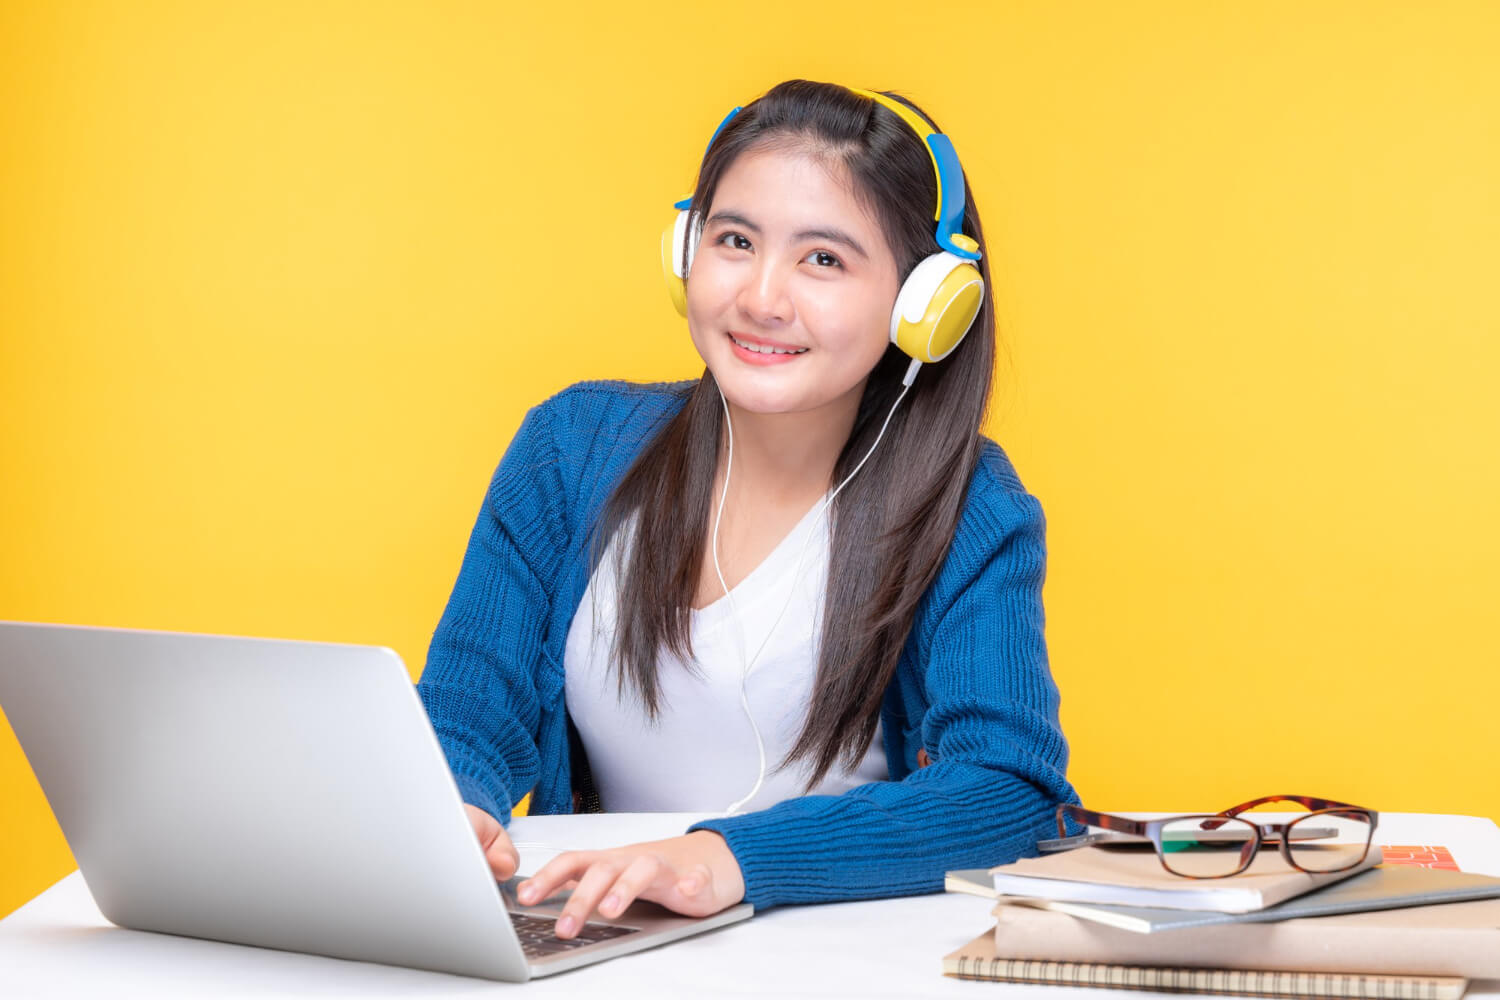
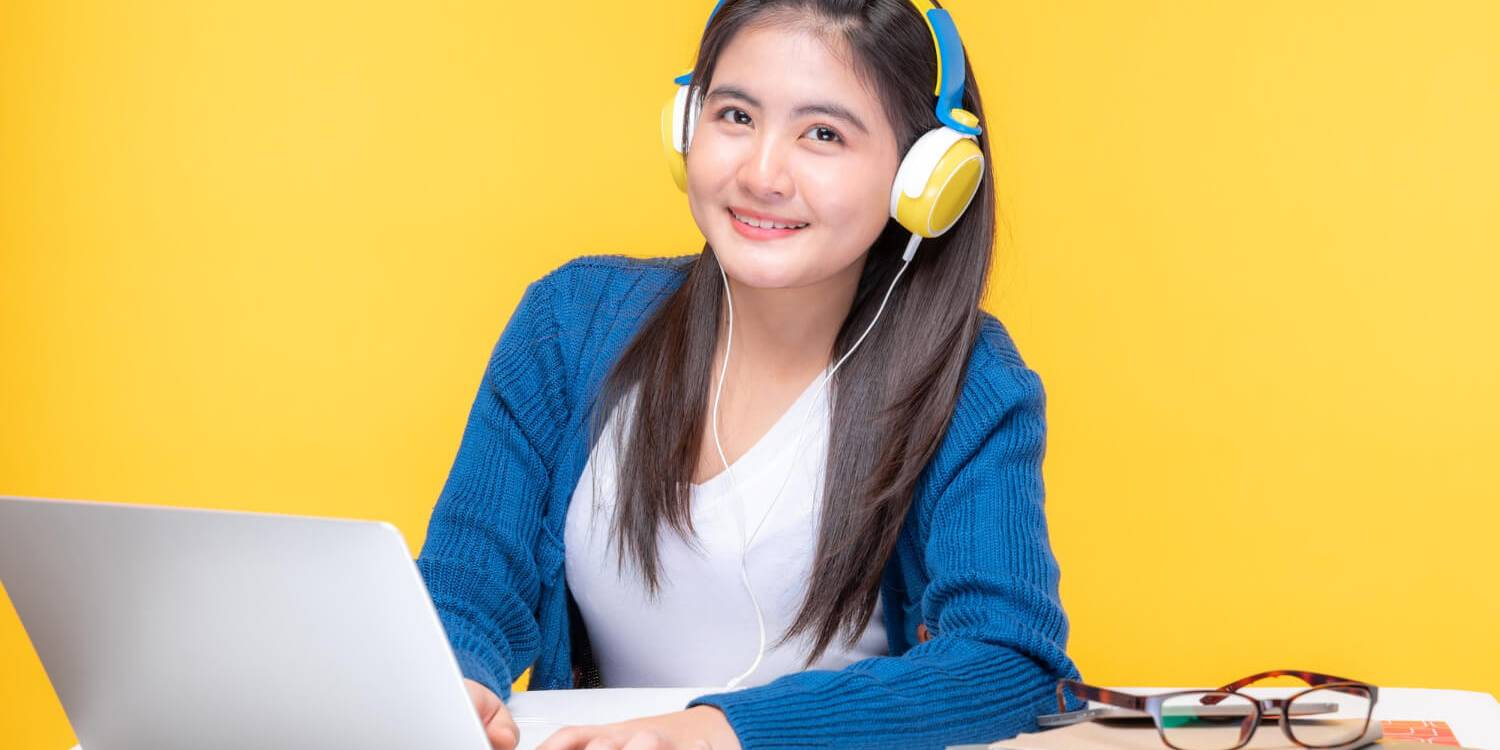
header-area images set

diff --git a/index.html b/index.html
@@ -87,7 +87,7 @@
       <!-- nav-area end -->
 
       <!-- Carousel-area start -->
-      <section class="container mt-4">
+      <section class="container my-4 mh-100">
         <div
           id="carouselExampleDark"
           class="carousel carousel-dark slide"
@@ -96,8 +96,8 @@
           <div class="carousel-inner">
             <div class="carousel-item active" data-bs-interval="2000">
               <img
-                src="images/cover/cover-1.png"
-                class="d-block w-100 opacity-50"
+                src="images/cover/cover-1.jpg"
+                class="d-block w-100 opacity-50 img-fluid"
                 alt="..."
               />
               <div class="carousel-caption d-none d-md-block">
@@ -117,8 +117,8 @@
             </div>
             <div class="carousel-item" data-bs-interval="2000">
               <img
-                src="images/cover/cover-3.jpg"
-                class="d-block w-100 opacity-50"
+                src="images/cover/cover-2.jpg"
+                class="d-block w-100 opacity-50 img-fluid"
                 alt="..."
               />
               <div class="carousel-caption d-none d-md-block">
@@ -135,7 +135,7 @@
             </div>
             <div class="carousel-item">
               <img
-                src="images/cover/cover-1.png"
+                src="images/cover/cover-3.jpg"
                 class="d-block w-100 opacity-50"
                 alt="..."
               />
@@ -479,6 +479,15 @@
         </section>
       </section>
       <!-- Frequntly-area end -->
+
+      <!-- Elearning-area start -->
+      <section>
+        <div class="elearning-left">
+          <img src="images/working.png" alt="working" class="im" />
+        </div>
+        <div class="elearning-right"></div>
+      </section>
+      <!-- Elearning-area end -->
     </main>
     <!-- main-area ends -->
 
